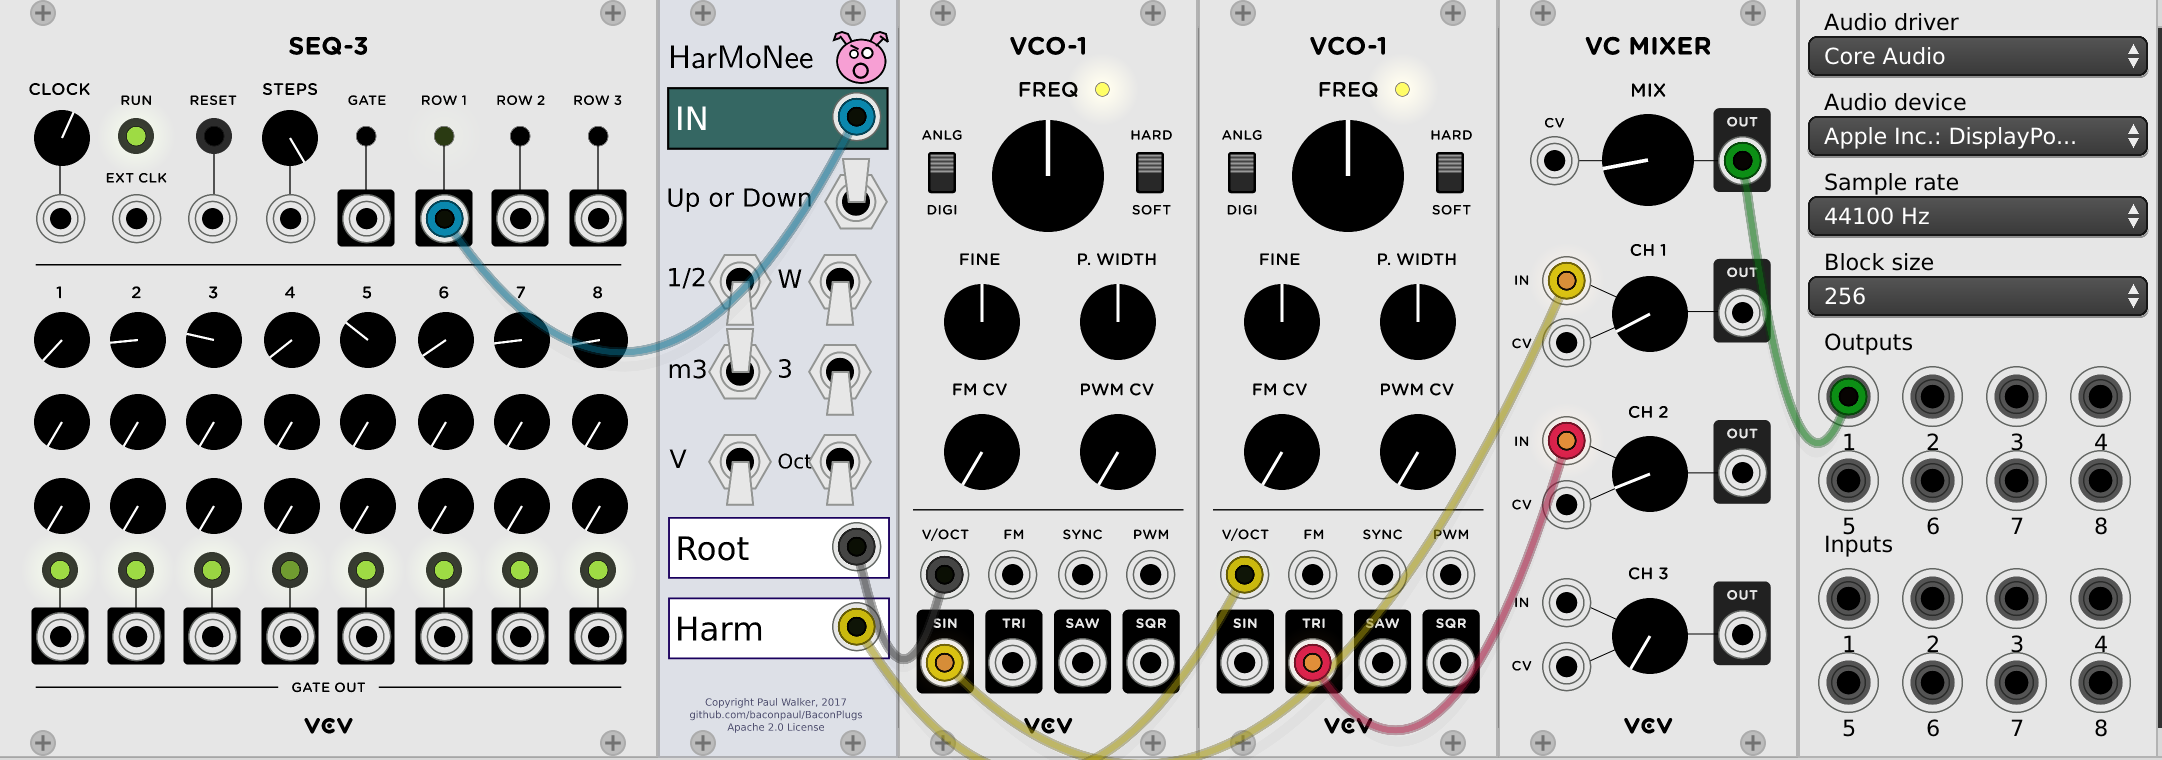
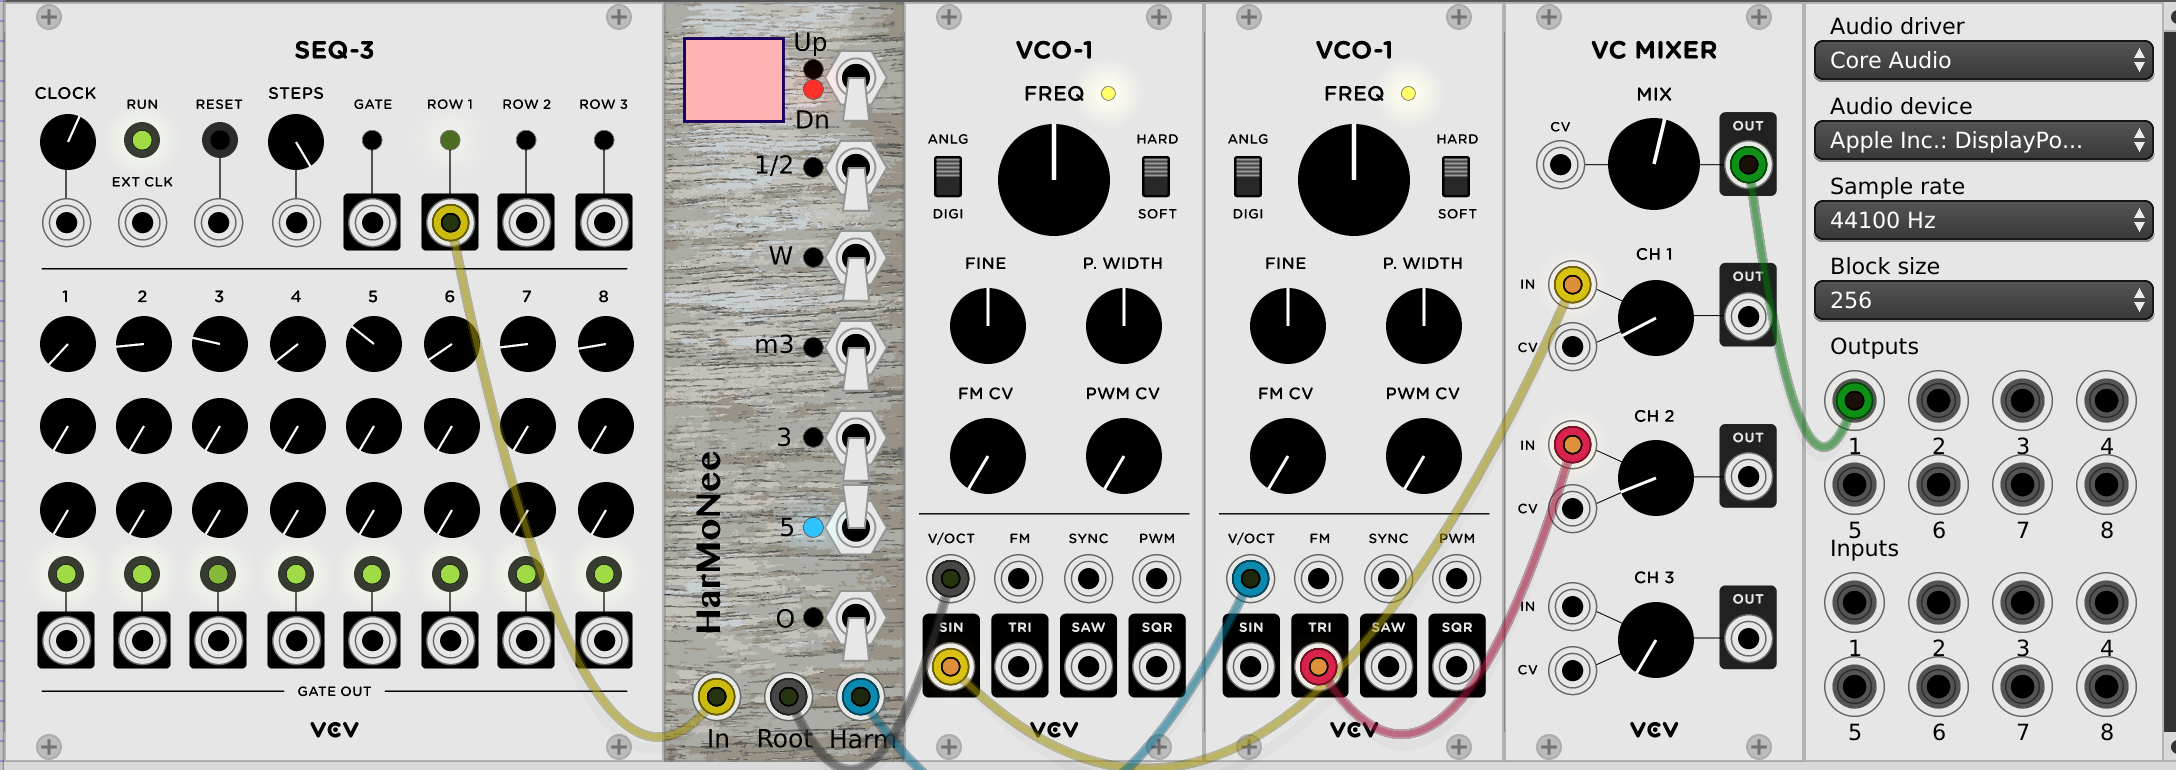
Make doc match version

diff --git a/README.md b/README.md
@@ -15,9 +15,7 @@ one which is the original, and the second which is modified by a musical amount,
 like a minor 3rd. It spans plus or minus one octave, and is controlled by toggles.
 
 The toggles are additive. So if you want a fourth, choose a major third and a half step 
-both. You get the idea. Here's the sample patch I use for testing. If you are actually
-seeing it, the artwork may have improved. Or maybe not. Perhaps I'll keep the crappy
-inkscape pig as a "theme"
+both. You get the idea. Here's the sample patch I use for testing in the current version.
 
 ![Example HarMoNee patch](doc/HarMoNee.png)
 
